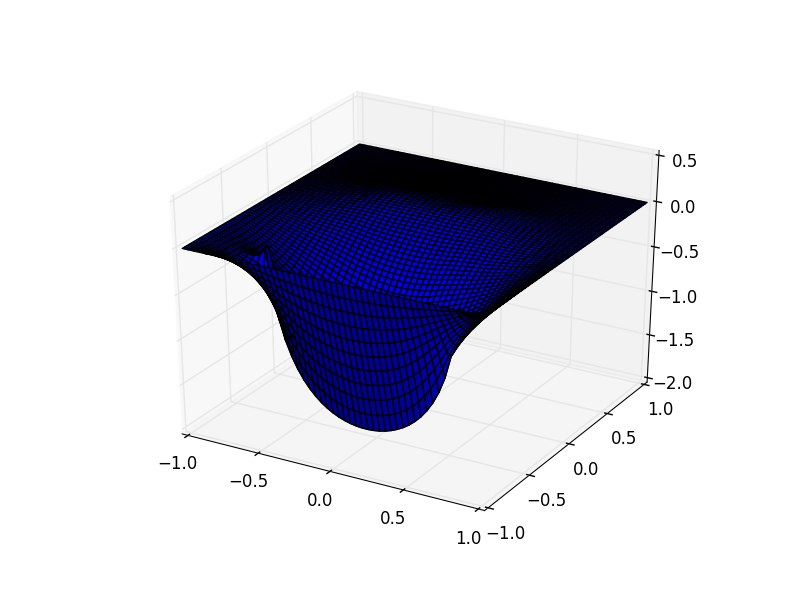
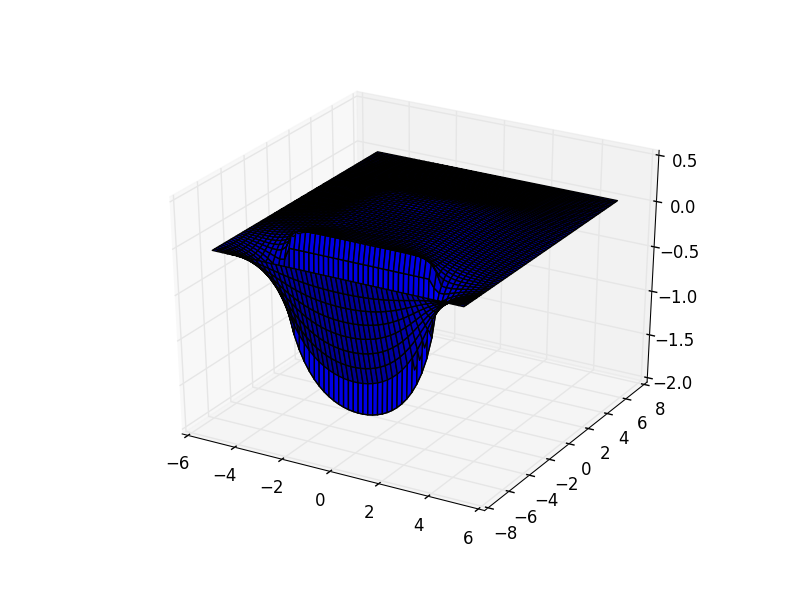
agrega arreglos en condicion derivativa y en los plots

diff --git a/Poisson.py b/Poisson.py
@@ -15,8 +15,10 @@ from mpl_toolkits.mplot3d import axes3d
 
 
 def muestra_phi(phi):
-    'esta wea hace bla'
-    # print(phi[::-1, :])
+    '''
+    Ejes modificados
+    '''
+    print(phi[::-1, :])
     pass
 
 
@@ -30,15 +32,15 @@ def Rho_Letra(i, j, h):
     x = i * h - 5
     y = j * h - 7.5
     value_rho = 1./15
-    if y >= -3.5 and y <= 3.5 and x >= -2.5 and x <= -1.5:
+    if y > -3.5 and y < 3.5 and x > -2.5 and x < -1.5:
         return value_rho
-    if y >= -3.5 and y <= 3.5 and x >= 1.5 and x <= 2.5:
+    if y > -3.5 and y < 3.5 and x >= 1.5 and x < 2.5:
         return value_rho
-    if y >= 0.5 and y <= 2.5 and x > -1.5 and x <= -0.5:
+    if y > 0.5 and y < 2.5 and x > -1.5 and x < -0.5:
         return value_rho
-    if y >= 0.5 and y <= 2.5 and x >= 0.5 and x < 1.5:
+    if y > 0.5 and y < 2.5 and x > 0.5 and x < 1.5:
             return value_rho
-    if y >= -0.5 and y <= 1.5 and x > -0.5 and x < 0.5:
+    if y > -0.5 and y < 1.5 and x > -0.5 and x < 0.5:
         return value_rho
     else:
         return 0
@@ -76,7 +78,7 @@ def una_iteracion(phi, phi_next, Nx_pasos, Ny_pasos, h, w=1.):
             phi_next[i, j] = ((1 - w) * phi[i, j] +
                               w / 4 * (phi[i+1, j] + phi_next[i-1, j] +
                                        phi[i, j+1] + phi_next[i, j-1] +
-                                       h**2 * Rho_Letra(i, j, h)))
+                                       (h**2) * Rho_Letra(i, j, h)))
     # laterales de la linea
     for j in range(1, 20):
         # Parte izquierda de la linea
@@ -108,15 +110,17 @@ def una_iteracion(phi, phi_next, Nx_pasos, Ny_pasos, h, w=1.):
     for i in range(11, 41):
         # inmediatamente bajo la linea
         for j in range(10, 11):
-            phi_next[i, j] = ((1 - w) * phi[i, j] +
-                              w / 3 * (phi[i+1, j] + phi_next[i-1, j] +
-                                       phi_next[i, j-1] + h*(-1.)))
+            y = 2 / h - 1
+            phi_next[i, y] = ((1 - w) * phi[i, y] +
+                              w / 3 * (phi[i+1, y] + phi_next[i-1, y] +
+                                       phi_next[i, y-1] + h*(-1.)))
 
         # inmediatamente sobre la linea
         for j in range(11, 12):
-            phi_next[i, j] = ((1 - w) * phi[i, j] +
-                              w / 3 * (phi[i+1, j] + phi_next[i-1, j] +
-                                       phi_next[i, j-1] + h*(1.)))
+            y = 2 / h + 1
+            phi_next[i, y] = ((1 - w) * phi[i, y] +
+                              w / 3 * (phi[i+1, y] + phi_next[i-1, y] +
+                                       phi_next[i, y-1] + h*(1.)))
 
 
 def no_ha_convergido(phi, phi_next, tolerancia=1e-5):
@@ -143,11 +147,11 @@ v_rho_next = np.zeros((Nx_pasos, Ny_pasos))
 
 
 # iteracion
-una_iteracion(v_rho, v_rho_next, Nx_pasos, Ny_pasos, h, w=1.5)
+una_iteracion(v_rho, v_rho_next, Nx_pasos, Ny_pasos, h, w=1.8)
 counter = 1
-while counter < 1000 and no_ha_convergido(v_rho, v_rho_next, tolerancia=1e-7):
+while counter < 2000 and no_ha_convergido(v_rho, v_rho_next, tolerancia=1e-7):
     v_rho = v_rho_next.copy()
-    una_iteracion(v_rho, v_rho_next, Nx_pasos, Ny_pasos, h, w=0.8)
+    una_iteracion(v_rho, v_rho_next, Nx_pasos, Ny_pasos, h, w=1.8)
     counter += 1
 
 print("counter = {}".format(counter))
@@ -158,8 +162,8 @@ v_next_rotada = v_rho_next.transpose()
 fig = plt.figure(1)
 fig.clf()
 ax = fig.add_subplot(111, projection='3d')
-x = np.linspace(-1, 1, Nx_pasos)
-y = np.linspace(-1, 1, Ny_pasos)
+x = np.linspace(-5, 5, Nx_pasos)
+y = np.linspace(-7.5, 7.5, Ny_pasos)
 X, Y = np.meshgrid(x, y)
 ax.plot_surface(X, Y, v_next_rotada, rstride=1, cstride=1)
 fig.show()
@@ -167,7 +171,12 @@ plt.savefig('plot_surface.png')
 
 fig2 = plt.figure(2)
 fig2.clf()
-ax2 = fig2.add_subplot(111)
-ax2.imshow(np.arcsinh(v_next_rotada), origin='bottom', interpolation='nearest')
+plt.imshow(np.arcsinh(v_next_rotada), origin='bottom', interpolation='nearest',
+           extent=[-5, 5, -7.5, 7.5])
+plt.colorbar()
+plt.title('Densidad de carga en el rect'u'á''ngulo')
+plt.xlabel('x [cm]')
+plt.ylabel('y [cm]')
 fig2.show()
+
 plt.savefig('plot_imshow.png')
